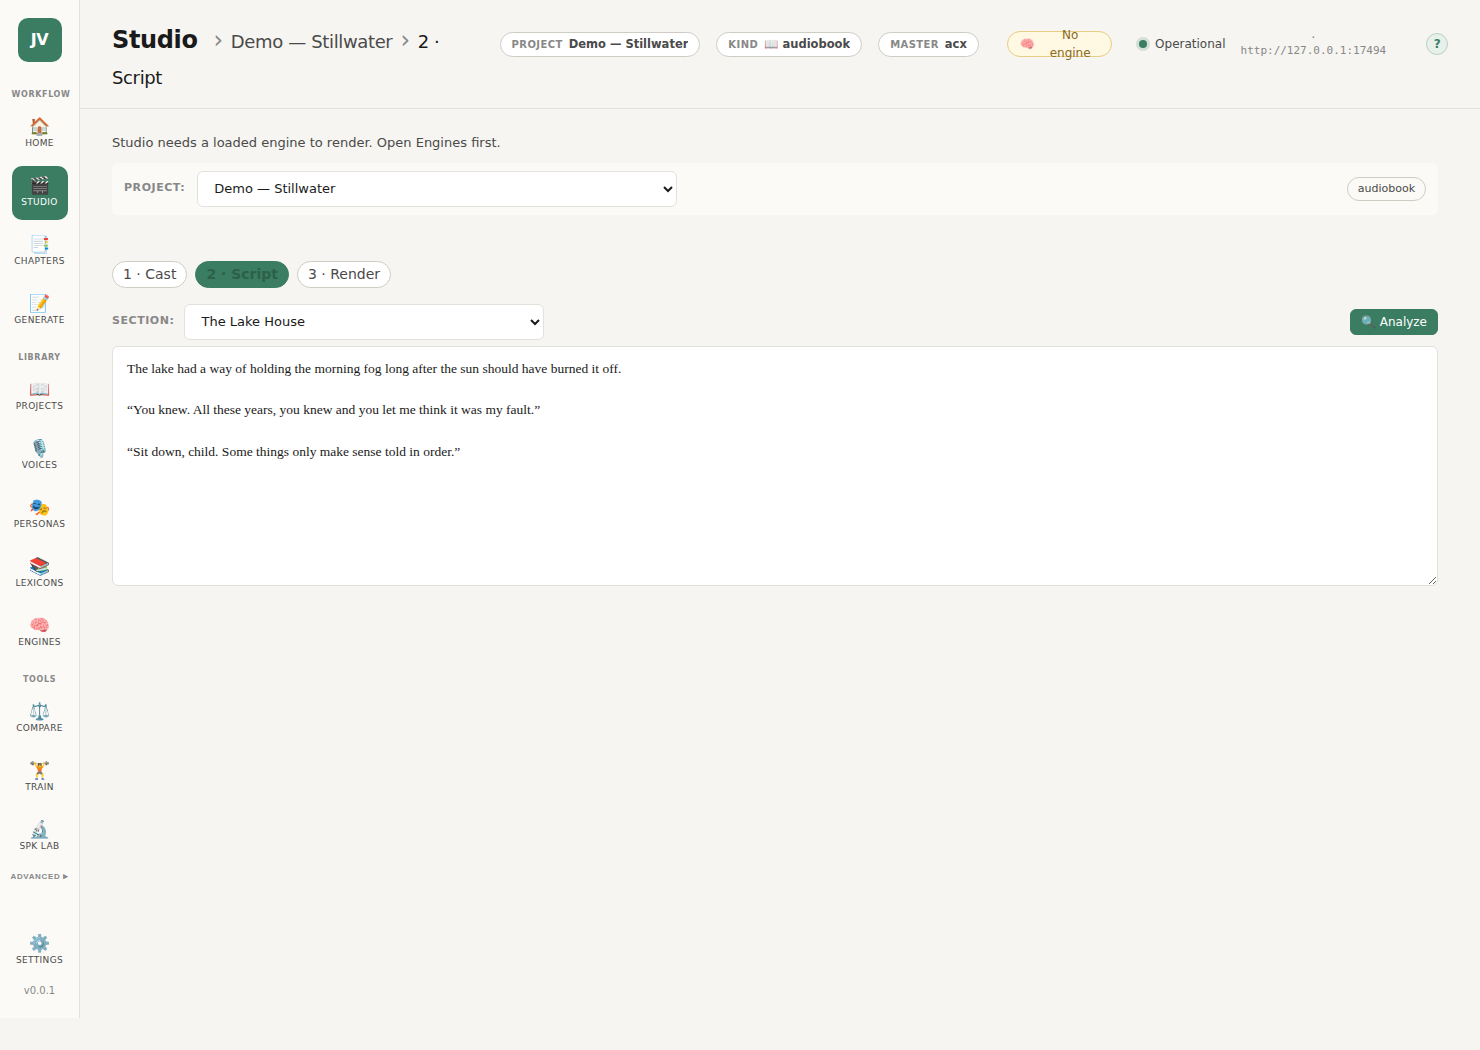
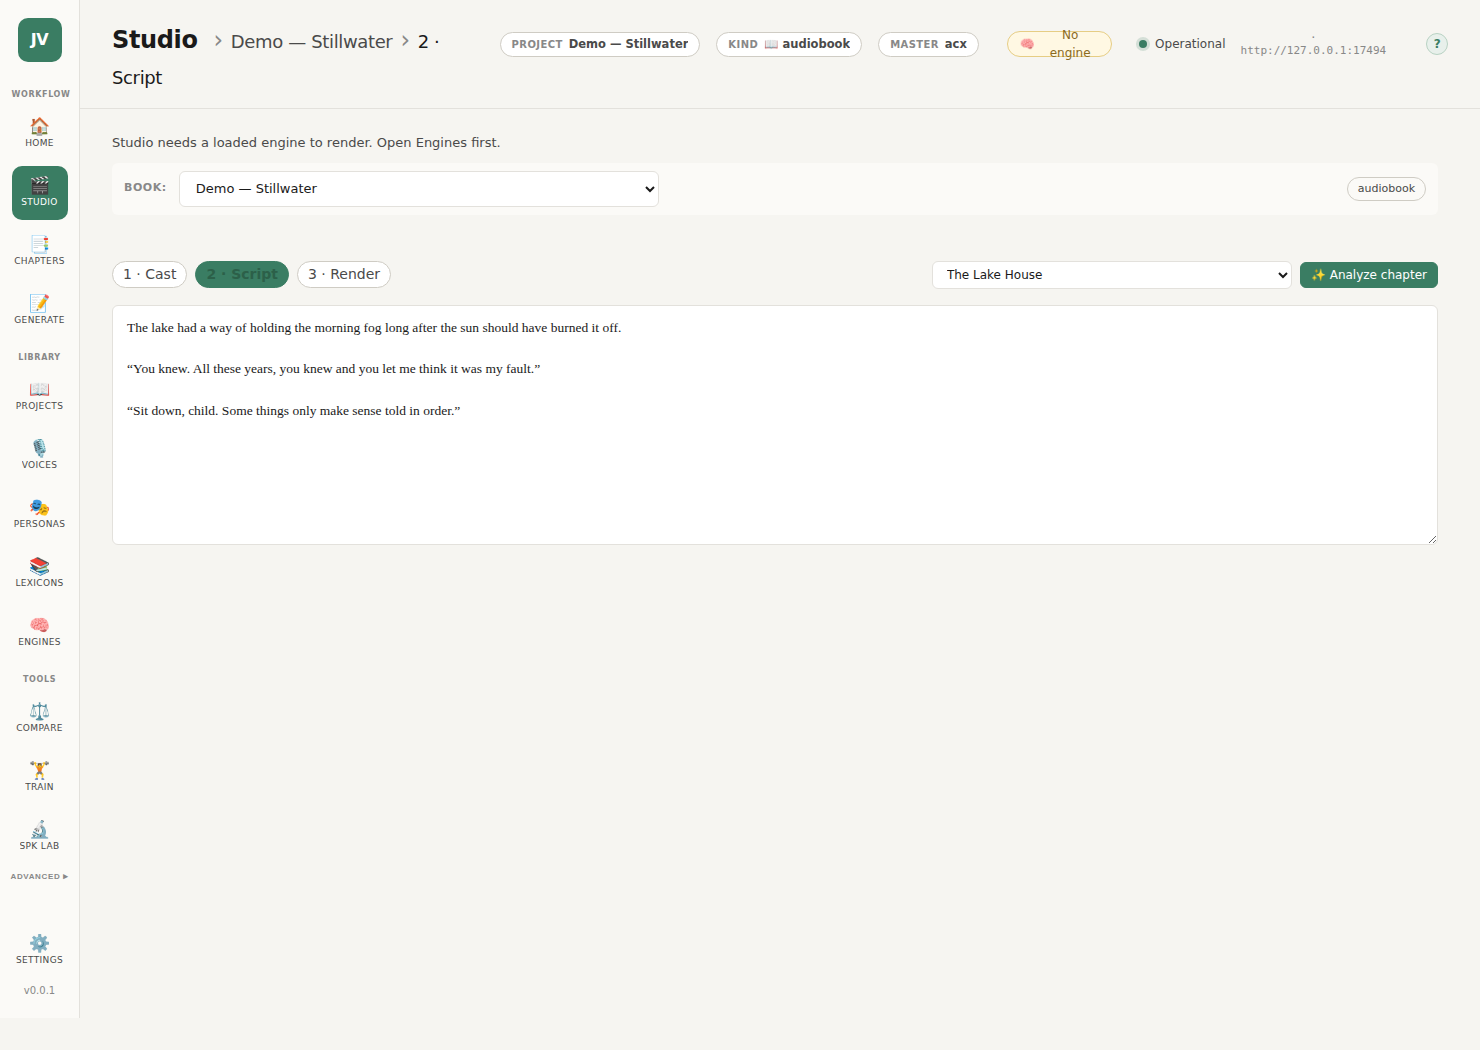
feat(studio): per-tab controls live on the steps row (mock) — Script select+Analyze, Render ACX pill+Render all
https://claude.ai/code/session_01RnHLzYNeJn2GgAMKW1BPmR

diff --git a/src/renderer/src/views/StudioView.vue b/src/renderer/src/views/StudioView.vue
@@ -1096,6 +1096,42 @@ watch(selectedProjectId, (id) => {
         :title="t.key === 'cast' ? 'Map people to voices' : t.key === 'script' ? 'Who speaks each line' : 'Batch render + mastering'"
         @click="tab = t.key"
       >{{ t.label }}</button>
+      <template v-if="tab === 'script' && selectedProject">
+        <span class="jv-spacer" />
+        <select v-model="selectedSceneId" class="jv-input jv-input--sm studio__script-select">
+          <option v-if="!scenes.length" :value="null">— no {{ copy.chapter.plural.toLowerCase() }} —</option>
+          <option v-for="sc in scenes" :key="sc.id" :value="sc.id">{{ sc.title || `${copy.chapter.singular} ${sc.position + 1}` }}</option>
+        </select>
+        <JvButton
+          variant="primary"
+          size="sm"
+          :loading="analyzeBusy"
+          :disabled="analyzeBusy || !sceneText.trim()"
+          label="✨ Analyze chapter"
+          title="LLM works out who speaks each line"
+          @click="runAnalyze"
+        />
+        <JvButton
+          v-if="analyzeRows.length"
+          variant="secondary"
+          size="sm"
+          label="✓ Apply"
+          title="Write the attribution onto this chapter's blocks"
+          @click="applyAnalyzed"
+        />
+      </template>
+      <template v-if="tab === 'render' && selectedProject">
+        <span class="jv-spacer" />
+        <span class="jv-pill jv-pill--green" :title="`Applied on render — set per project in Projects`">{{ masterPill }}</span>
+        <JvButton
+          variant="secondary"
+          size="sm"
+          :disabled="renderBusyScene !== null"
+          label="▶ Render all"
+          title="Queue every chapter that has blocks"
+          @click="renderAll"
+        />
+      </template>
       <template v-if="tab === 'cast' && selectedProject">
         <span class="jv-spacer" />
         <JvButton
@@ -1322,30 +1358,6 @@ watch(selectedProjectId, (id) => {
         Pick a {{ copy.book.singular.toLowerCase() }} above to attribute its script.
       </div>
       <template v-else>
-        <header class="studio__script-toolbar">
-          <label class="studio__script-label">{{ copy.chapter.singular }}:</label>
-          <select v-model="selectedSceneId" class="jv-input studio__script-select">
-            <option v-if="!scenes.length" :value="null">— no {{ copy.chapter.plural.toLowerCase() }} —</option>
-            <option v-for="s in scenes" :key="s.id" :value="s.id">{{ s.title || `${copy.chapter.singular} ${s.position + 1}` }}</option>
-          </select>
-          <span class="jv-spacer" />
-          <JvButton
-            variant="primary"
-            size="sm"
-            :loading="analyzeBusy"
-            :disabled="analyzeBusy || !sceneText.trim()"
-            label="🔍 Analyze"
-            @click="runAnalyze"
-          />
-          <JvButton
-            v-if="analyzeRows.length"
-            variant="secondary"
-            size="sm"
-            label="✓ Apply"
-            @click="applyAnalyzed"
-          />
-        </header>
-
         <!-- Discovered speakers — promotion banner (mock #audiobook/5) -->
         <div v-if="discovered.length" class="jv-banner jv-banner--warn studio__discovered">
           <strong>{{ discovered.length }} speaker{{ discovered.length === 1 ? "" : "s" }} found that {{ discovered.length === 1 ? "isn't" : "aren't" }} in your cast:</strong>
@@ -1428,7 +1440,6 @@ watch(selectedProjectId, (id) => {
           <JvButton variant="secondary" size="sm" label="Select all with blocks" @click="selectAllUnrendered" />
           <span class="jv-muted">{{ selectedSceneCount() }} selected</span>
           <span class="jv-spacer" />
-          <span class="jv-pill jv-pill--green" :title="`Applied on render — set per project in Projects`">{{ masterPill }}</span>
           <JvButton
             variant="secondary"
             size="sm"
@@ -1437,14 +1448,6 @@ watch(selectedProjectId, (id) => {
             label="🎧 Run ACX QC"
             title="Render every chapter (cache-served when unchanged) and measure RMS + peak against the ACX limits"
             @click="runQC"
-          />
-          <JvButton
-            variant="secondary"
-            size="sm"
-            :disabled="renderBusyScene !== null"
-            label="▶ Render all"
-            title="Queue every chapter that has blocks"
-            @click="renderAll"
           />
           <JvButton
             variant="primary"
